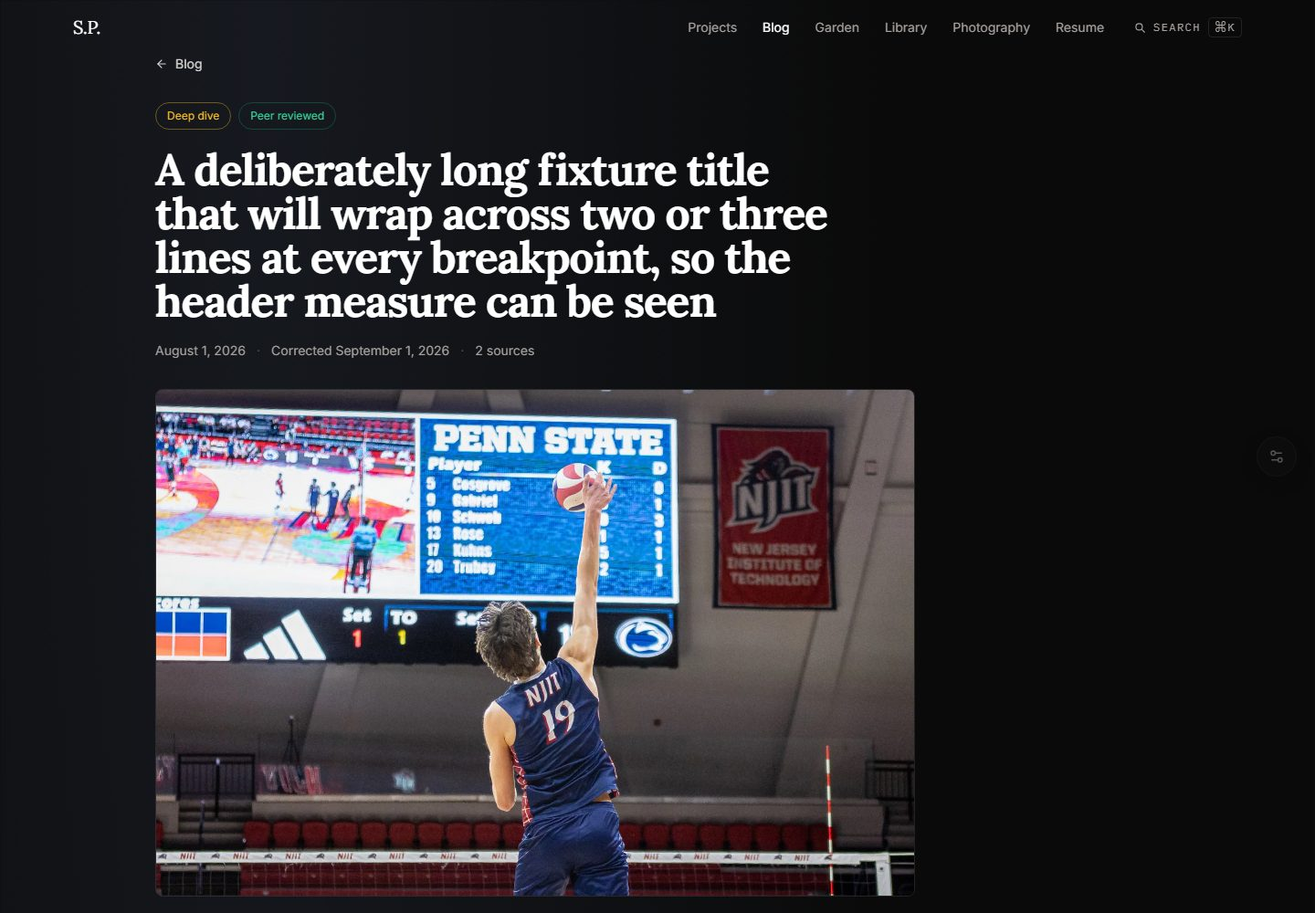
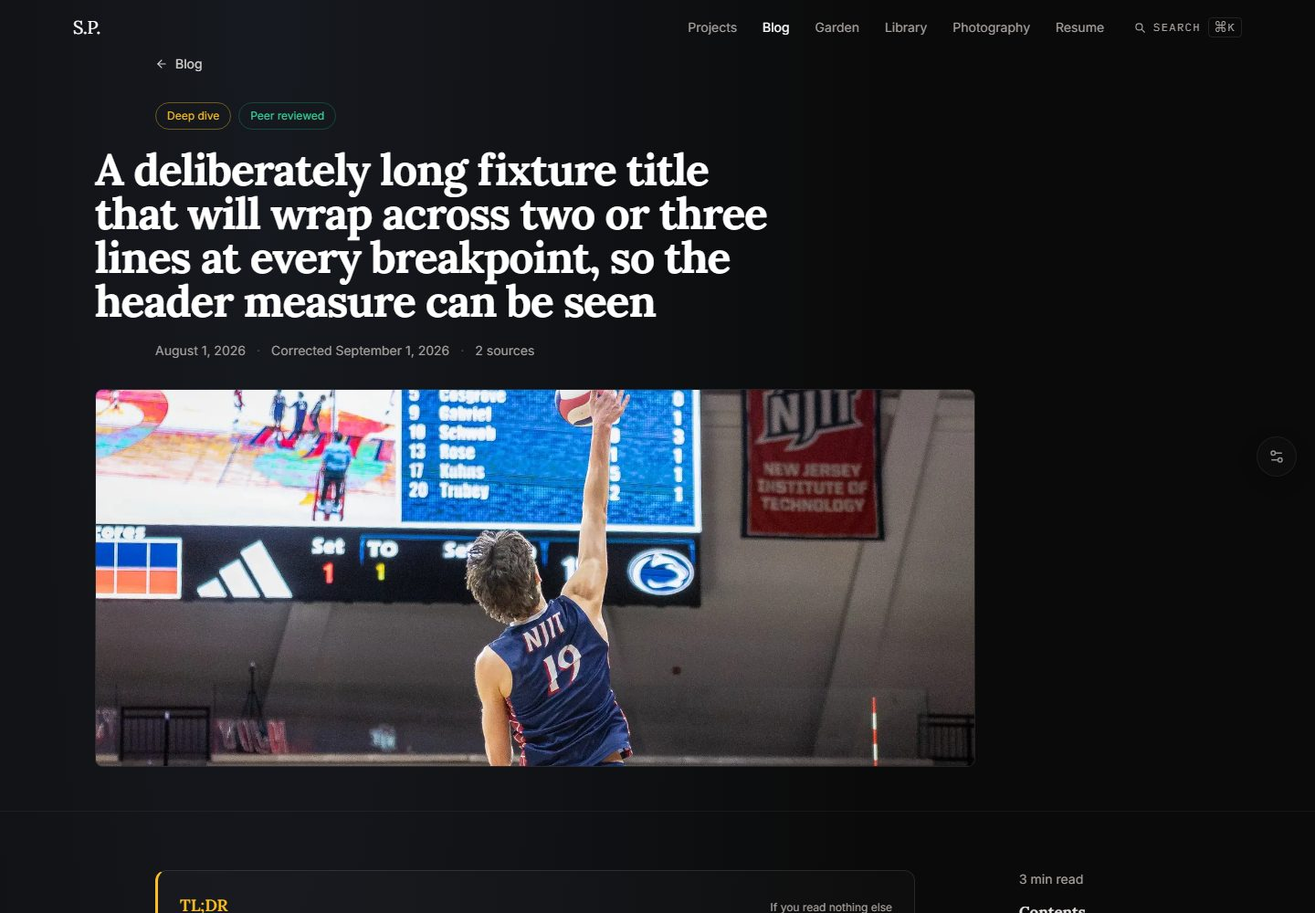
Article header: hero at 21:9 on the full column, title beside it (7.3 F, 7.4 B)
7.3 and 7.4 ship together because they are one restructure. Both decisions move
an element from the 52rem `wide` tier onto the full reading column, and that
needed the header's single wrapper split into a full-width column with 52rem
blocks inside it. Shipping one without the other leaves the header with two
different ideas of where its left edge is.

7.3 option F. The hero is 21:9 across the full column, 132px wider (+16%), and
the crop is SANITY's rather than CSS's. object-fit crops around the geometric
centre, which is why a subject drifts out of frame at one breakpoint and not
another; passing the raw image object to @sanity/image-url lets it read the
editor's hotspot and compute the rect, so the subject stays in frame because a
person said where it is. The bytes fetched are also the bytes shown, instead of a
16:9 image with a third of it hidden behind a container.

That required projecting the raw `mainImage` object in postBySlugQuery. The
existing projection flattens to `asset->url`, which loses hotspot and crop.

Measured against F's own predicted fold table, and it lands within a pixel at
every breakpoint. First line of prose: 1440 886 against a predicted 885, 768 1093
against 1092, 390 961 against 960. 768 gains 72px, which is the largest single
fold improvement in the phase.

7.4 option B. The title joins the same full column: 964px at 1440, up from 832,
and the 77-character title now sets in two lines. Rejected C, flush with the
[…]

diff --git a/sanity.types.ts b/sanity.types.ts
@@ -4824,7 +4824,7 @@ export type PostSlugsQueryResult = Array<{
 
 // Source: sanity/lib/queries.ts
 // Variable: postBySlugQuery
-// Query: *[_type == "post" && slug.current == $slug][0] {    _id, _updatedAt, title, "slug": slug.current, publishedAt,    "mainImageUrl": mainImage.asset->url,    "mainImageAlt": coalesce(mainImage.alt, mainImage.asset->altText),    "lqip": mainImage.asset->metadata.lqip,    body, excerpt, tldr,      "wordCount": coalesce(math::sum(body[_type == "block" && defined(children)]{    "w": length(string::split(array::join(children[].text, ""), " "))  }.w), 0),    "categories": categories[]->title,    "tags": tags[]->{ _id, title, "slug": slug.current }[defined(_id)],    articleType, confidenceLevel, maturityIndicator, cognitiveLoad, recommendedTheme,    reviewStatus,    learningObjectives,    "prerequisites": prerequisites[] {      _key, description,      "post": post->{ title, "slug": slug.current }    },    "checkpoint": priorKnowledgeCheck,    conceptCards[] { _key, front, back },    "readNextGoDeeper":  readNextGoDeeper->{ title, "slug": slug.current, excerpt, articleType },    "readNextGoBroader": readNextGoBroader->{ title, "slug": slug.current, excerpt, articleType },    "readNextApplyThis": readNextApplyThis->{ title, "slug": slug.current, excerpt, articleType },    "series": series->{      _id, title, "slug": slug.current, description,      "posts": *[_type == "post" && references(^._id) && defined(slug.current)] | order(seriesOrder asc, publishedAt asc) {        _id, title, "slug": slug.current, seriesOrder      }    },    seriesOrder,    reviewers[] { _key, name, role, organization, quote, date, linkedIn, anonymous },    changelog[]  { _key, date, description },    // 3B. Full objects here, unlike the card -- the article renders them in place and at    // the foot, so it needs every field.    corrections[] { _key, anchor, kind, was, now, creditTo, creditUrl, date, sourceComment },    responsesFromField[] { _key, title, url, author, platform, summary, date },    sources[] { _key, title, url, author, type, description },    "glossary": *[_type == "glossaryTerm" && defined(slug.current)] { _id, term, "slug": slug.current, definition, aliases },    "backlinks": {      "notes": *[_type == "note" && references(^._id)] { _id, title, "slug": slug.current, status },      "posts": *[_type == "post" && references(^._id) && _id != ^._id] { _id, title, "slug": slug.current, articleType },      "library": *[_type == "mediaItem" && references(^._id)] { _id, title, mediaType, author },      "projects": *[_type == "project" && references(^._id)] { _id, title, "slug": slug.current }    }  }
+// Query: *[_type == "post" && slug.current == $slug][0] {    _id, _updatedAt, title, "slug": slug.current, publishedAt,    "mainImageUrl": mainImage.asset->url,    "mainImageAlt": coalesce(mainImage.alt, mainImage.asset->altText),    "lqip": mainImage.asset->metadata.lqip,    // 7.3 option F. The RAW image object, asset reference and all, because the hero is    // cropped to 21:9 by Sanity from the editor's hotspot rather than by CSS object-fit.    // The projection above flattens to a URL string and loses hotspot and crop with it, so    // a second projection is the only way to keep them. @sanity/image-url reads hotspot and    // crop off this shape and computes the rect.    // NO BACKTICKS IN THIS COMMENT: one ends the template literal and silently truncates    // every query below it. See RESUME.md; it has cost this project two sessions.    mainImage { asset, hotspot, crop },    body, excerpt, tldr,      "wordCount": coalesce(math::sum(body[_type == "block" && defined(children)]{    "w": length(string::split(array::join(children[].text, ""), " "))  }.w), 0),    "categories": categories[]->title,    "tags": tags[]->{ _id, title, "slug": slug.current }[defined(_id)],    articleType, confidenceLevel, maturityIndicator, cognitiveLoad, recommendedTheme,    reviewStatus,    learningObjectives,    "prerequisites": prerequisites[] {      _key, description,      "post": post->{ title, "slug": slug.current }    },    "checkpoint": priorKnowledgeCheck,    conceptCards[] { _key, front, back },    "readNextGoDeeper":  readNextGoDeeper->{ title, "slug": slug.current, excerpt, articleType },    "readNextGoBroader": readNextGoBroader->{ title, "slug": slug.current, excerpt, articleType },    "readNextApplyThis": readNextApplyThis->{ title, "slug": slug.current, excerpt, articleType },    "series": series->{      _id, title, "slug": slug.current, description,      "posts": *[_type == "post" && references(^._id) && defined(slug.current)] | order(seriesOrder asc, publishedAt asc) {        _id, title, "slug": slug.current, seriesOrder      }    },    seriesOrder,    reviewers[] { _key, name, role, organization, quote, date, linkedIn, anonymous },    changelog[]  { _key, date, description },    // 3B. Full objects here, unlike the card -- the article renders them in place and at    // the foot, so it needs every field.    corrections[] { _key, anchor, kind, was, now, creditTo, creditUrl, date, sourceComment },    responsesFromField[] { _key, title, url, author, platform, summary, date },    sources[] { _key, title, url, author, type, description },    "glossary": *[_type == "glossaryTerm" && defined(slug.current)] { _id, term, "slug": slug.current, definition, aliases },    "backlinks": {      "notes": *[_type == "note" && references(^._id)] { _id, title, "slug": slug.current, status },      "posts": *[_type == "post" && references(^._id) && _id != ^._id] { _id, title, "slug": slug.current, articleType },      "library": *[_type == "mediaItem" && references(^._id)] { _id, title, mediaType, author },      "projects": *[_type == "project" && references(^._id)] { _id, title, "slug": slug.current }    }  }
 export type PostBySlugQueryResult = {
   _id: string
   _updatedAt: string
@@ -4834,6 +4834,11 @@ export type PostBySlugQueryResult = {
   mainImageUrl: string | null
   mainImageAlt: string | null
   lqip: string | null
+  mainImage: {
+    asset: SanityImageAssetReference | null
+    hotspot: SanityImageHotspot | null
+    crop: SanityImageCrop | null
+  } | null
   body: Array<
     | ({
         _key: string
@@ -5759,7 +5764,7 @@ declare module '@sanity/client' {
     '\n  *[_type == "testimonial" && consent == true] | order(date desc) {\n    _id, name, role, quote, date, service, "photoUrl": photo.asset->url\n  }\n': TestimonialsQueryResult
     '{\n  "featuredPost": *[_type == "post" && isFeatured == true] | order(publishedAt desc)[0] { \n  _id,\n  title,\n  "slug": slug.current,\n  publishedAt,\n  excerpt,\n  "imageUrl": mainImage.asset->url,\n  "lqip": mainImage.asset->metadata.lqip,\n  "categories": categories[]->title,\n  "tags": tags[]->{ _id, title, "slug": slug.current },\n  articleType,\n  // The card carries the small status mark (Phase 3.3). Without this the index and the\n  // feeds had no status at all while the article had three tiers of it.\n  reviewStatus,\n  // 3.7 + 3B. The newest date across the changelog AND the corrections -- both are material\n  // revisions. Projected as one value rather than the whole arrays: the card needs the date\n  // and the kinds, not twenty revision notes per card.\n  // coalesce(..., []) because null + array is null in GROQ -- and a backtick in this\n  // comment would end the template literal the query lives in, which is how the first\n  // version of this line silently dropped 27 of 40 queries from typegen.\n  // A post with a changelog and no corrections would otherwise project no date at all.\n  "lastRevised": (coalesce(changelog[].date, []) + coalesce(corrections[].date, [])) | order(@ desc)[0],\n  "correctionKinds": corrections[].kind,\n  \n  "wordCount": coalesce(math::sum(body[_type == "block" && defined(children)]{\n    "w": length(string::split(array::join(children[].text, ""), " "))\n  }.w), 0),\n  "series": series->{ title, "slug": slug.current }\n },\n  // Every post, ordered. The page removes whichever one it actually featured. Filtering\n  // isFeatured != true here hid any post flagged featured but not selected as THE featured one.\n  "posts": *[_type == "post"] | order(publishedAt desc) { \n  _id,\n  title,\n  "slug": slug.current,\n  publishedAt,\n  excerpt,\n  "imageUrl": mainImage.asset->url,\n  "lqip": mainImage.asset->metadata.lqip,\n  "categories": categories[]->title,\n  "tags": tags[]->{ _id, title, "slug": slug.current },\n  articleType,\n  // The card carries the small status mark (Phase 3.3). Without this the index and the\n  // feeds had no status at all while the article had three tiers of it.\n  reviewStatus,\n  // 3.7 + 3B. The newest date across the changelog AND the corrections -- both are material\n  // revisions. Projected as one value rather than the whole arrays: the card needs the date\n  // and the kinds, not twenty revision notes per card.\n  // coalesce(..., []) because null + array is null in GROQ -- and a backtick in this\n  // comment would end the template literal the query lives in, which is how the first\n  // version of this line silently dropped 27 of 40 queries from typegen.\n  // A post with a changelog and no corrections would otherwise project no date at all.\n  "lastRevised": (coalesce(changelog[].date, []) + coalesce(corrections[].date, [])) | order(@ desc)[0],\n  "correctionKinds": corrections[].kind,\n  \n  "wordCount": coalesce(math::sum(body[_type == "block" && defined(children)]{\n    "w": length(string::split(array::join(children[].text, ""), " "))\n  }.w), 0),\n  "series": series->{ title, "slug": slug.current }\n },\n  "series": *[_type == "series"] | order(title asc) {\n    _id, title, "slug": slug.current, description, "count": count(*[_type == "post" && references(^._id)])\n  },\n  "currentlyReading": *[_type == "mediaItem" && status == "current"] | order(startedAt desc)[0...3] {\n    _id, title, author, mediaType, progressPercent, url\n  },\n  "recentNotes": *[_type == "note"] | order(coalesce(lastTended, _updatedAt) desc)[0...4] {\n    _id, title, "slug": slug.current, status\n  }\n}': BlogIndexQueryResult
     '\n  *[_type == "post" && defined(slug.current)]{ "slug": slug.current }\n': PostSlugsQueryResult
-    '\n  *[_type == "post" && slug.current == $slug][0] {\n    _id, _updatedAt, title, "slug": slug.current, publishedAt,\n    "mainImageUrl": mainImage.asset->url,\n    "mainImageAlt": coalesce(mainImage.alt, mainImage.asset->altText),\n    "lqip": mainImage.asset->metadata.lqip,\n    body, excerpt, tldr,\n    \n  "wordCount": coalesce(math::sum(body[_type == "block" && defined(children)]{\n    "w": length(string::split(array::join(children[].text, ""), " "))\n  }.w), 0),\n    "categories": categories[]->title,\n    "tags": tags[]->{ _id, title, "slug": slug.current }[defined(_id)],\n    articleType, confidenceLevel, maturityIndicator, cognitiveLoad, recommendedTheme,\n    reviewStatus,\n    learningObjectives,\n    "prerequisites": prerequisites[] {\n      _key, description,\n      "post": post->{ title, "slug": slug.current }\n    },\n    "checkpoint": priorKnowledgeCheck,\n    conceptCards[] { _key, front, back },\n    "readNextGoDeeper":  readNextGoDeeper->{ title, "slug": slug.current, excerpt, articleType },\n    "readNextGoBroader": readNextGoBroader->{ title, "slug": slug.current, excerpt, articleType },\n    "readNextApplyThis": readNextApplyThis->{ title, "slug": slug.current, excerpt, articleType },\n    "series": series->{\n      _id, title, "slug": slug.current, description,\n      "posts": *[_type == "post" && references(^._id) && defined(slug.current)] | order(seriesOrder asc, publishedAt asc) {\n        _id, title, "slug": slug.current, seriesOrder\n      }\n    },\n    seriesOrder,\n    reviewers[] { _key, name, role, organization, quote, date, linkedIn, anonymous },\n    changelog[]  { _key, date, description },\n    // 3B. Full objects here, unlike the card -- the article renders them in place and at\n    // the foot, so it needs every field.\n    corrections[] { _key, anchor, kind, was, now, creditTo, creditUrl, date, sourceComment },\n    responsesFromField[] { _key, title, url, author, platform, summary, date },\n    sources[] { _key, title, url, author, type, description },\n    "glossary": *[_type == "glossaryTerm" && defined(slug.current)] { _id, term, "slug": slug.current, definition, aliases },\n    "backlinks": {\n      "notes": *[_type == "note" && references(^._id)] { _id, title, "slug": slug.current, status },\n      "posts": *[_type == "post" && references(^._id) && _id != ^._id] { _id, title, "slug": slug.current, articleType },\n      "library": *[_type == "mediaItem" && references(^._id)] { _id, title, mediaType, author },\n      "projects": *[_type == "project" && references(^._id)] { _id, title, "slug": slug.current }\n    }\n  }\n': PostBySlugQueryResult
+    '\n  *[_type == "post" && slug.current == $slug][0] {\n    _id, _updatedAt, title, "slug": slug.current, publishedAt,\n    "mainImageUrl": mainImage.asset->url,\n    "mainImageAlt": coalesce(mainImage.alt, mainImage.asset->altText),\n    "lqip": mainImage.asset->metadata.lqip,\n    // 7.3 option F. The RAW image object, asset reference and all, because the hero is\n    // cropped to 21:9 by Sanity from the editor\'s hotspot rather than by CSS object-fit.\n    // The projection above flattens to a URL string and loses hotspot and crop with it, so\n    // a second projection is the only way to keep them. @sanity/image-url reads hotspot and\n    // crop off this shape and computes the rect.\n    // NO BACKTICKS IN THIS COMMENT: one ends the template literal and silently truncates\n    // every query below it. See RESUME.md; it has cost this project two sessions.\n    mainImage { asset, hotspot, crop },\n    body, excerpt, tldr,\n    \n  "wordCount": coalesce(math::sum(body[_type == "block" && defined(children)]{\n    "w": length(string::split(array::join(children[].text, ""), " "))\n  }.w), 0),\n    "categories": categories[]->title,\n    "tags": tags[]->{ _id, title, "slug": slug.current }[defined(_id)],\n    articleType, confidenceLevel, maturityIndicator, cognitiveLoad, recommendedTheme,\n    reviewStatus,\n    learningObjectives,\n    "prerequisites": prerequisites[] {\n      _key, description,\n      "post": post->{ title, "slug": slug.current }\n    },\n    "checkpoint": priorKnowledgeCheck,\n    conceptCards[] { _key, front, back },\n    "readNextGoDeeper":  readNextGoDeeper->{ title, "slug": slug.current, excerpt, articleType },\n    "readNextGoBroader": readNextGoBroader->{ title, "slug": slug.current, excerpt, articleType },\n    "readNextApplyThis": readNextApplyThis->{ title, "slug": slug.current, excerpt, articleType },\n    "series": series->{\n      _id, title, "slug": slug.current, description,\n      "posts": *[_type == "post" && references(^._id) && defined(slug.current)] | order(seriesOrder asc, publishedAt asc) {\n        _id, title, "slug": slug.current, seriesOrder\n      }\n    },\n    seriesOrder,\n    reviewers[] { _key, name, role, organization, quote, date, linkedIn, anonymous },\n    changelog[]  { _key, date, description },\n    // 3B. Full objects here, unlike the card -- the article renders them in place and at\n    // the foot, so it needs every field.\n    corrections[] { _key, anchor, kind, was, now, creditTo, creditUrl, date, sourceComment },\n    responsesFromField[] { _key, title, url, author, platform, summary, date },\n    sources[] { _key, title, url, author, type, description },\n    "glossary": *[_type == "glossaryTerm" && defined(slug.current)] { _id, term, "slug": slug.current, definition, aliases },\n    "backlinks": {\n      "notes": *[_type == "note" && references(^._id)] { _id, title, "slug": slug.current, status },\n      "posts": *[_type == "post" && references(^._id) && _id != ^._id] { _id, title, "slug": slug.current, articleType },\n      "library": *[_type == "mediaItem" && references(^._id)] { _id, title, mediaType, author },\n      "projects": *[_type == "project" && references(^._id)] { _id, title, "slug": slug.current }\n    }\n  }\n': PostBySlugQueryResult
     '{\n  "posts": *[_type == "post" && defined(slug.current)] {\n    _id, title, "slug": slug.current, excerpt, publishedAt, articleType,\n    "categories": categories[]->title, "text": pt::text(body)\n  },\n  "notes": *[_type == "note" && defined(slug.current)] {\n    _id, title, "slug": slug.current, status, "text": pt::text(body)\n  },\n  "projects": *[_type == "project" && defined(slug.current)] {\n    _id, title, "slug": slug.current, "excerpt": pt::text(overview), techStack\n  },\n  "library": *[_type == "mediaItem"] { _id, title, author, mediaType, oneSentenceTake, url },\n  "glossary": *[_type == "glossaryTerm" && defined(slug.current)] { _id, term, "slug": slug.current, definition }\n}': SearchIndexQueryResult
     '\n  *[_type == "post" && defined(slug.current) && defined(publishedAt)] | order(publishedAt desc)[0...50] {\n    _id, title, "slug": slug.current, publishedAt, _updatedAt, excerpt, body, articleType,\n    reviewStatus,\n    "lastRevised": (coalesce(changelog[].date, []) + coalesce(corrections[].date, [])) | order(@ desc)[0],\n    "correctionKinds": corrections[].kind,\n    "categories": categories[]->title,\n    "imageUrl": mainImage.asset->url\n  }\n': FeedQueryResult
     '\n  *[_type == "series" && slug.current == $slug][0] {\n    _id, title, "slug": slug.current, description, status,\n    "posts": *[_type == "post" && references(^._id) && defined(slug.current)] | order(seriesOrder asc, publishedAt asc) { \n  _id,\n  title,\n  "slug": slug.current,\n  publishedAt,\n  excerpt,\n  "imageUrl": mainImage.asset->url,\n  "lqip": mainImage.asset->metadata.lqip,\n  "categories": categories[]->title,\n  "tags": tags[]->{ _id, title, "slug": slug.current },\n  articleType,\n  // The card carries the small status mark (Phase 3.3). Without this the index and the\n  // feeds had no status at all while the article had three tiers of it.\n  reviewStatus,\n  // 3.7 + 3B. The newest date across the changelog AND the corrections -- both are material\n  // revisions. Projected as one value rather than the whole arrays: the card needs the date\n  // and the kinds, not twenty revision notes per card.\n  // coalesce(..., []) because null + array is null in GROQ -- and a backtick in this\n  // comment would end the template literal the query lives in, which is how the first\n  // version of this line silently dropped 27 of 40 queries from typegen.\n  // A post with a changelog and no corrections would otherwise project no date at all.\n  "lastRevised": (coalesce(changelog[].date, []) + coalesce(corrections[].date, [])) | order(@ desc)[0],\n  "correctionKinds": corrections[].kind,\n  \n  "wordCount": coalesce(math::sum(body[_type == "block" && defined(children)]{\n    "w": length(string::split(array::join(children[].text, ""), " "))\n  }.w), 0),\n  "series": series->{ title, "slug": slug.current }\n, seriesOrder }\n  }\n': SeriesBySlugQueryResult

diff --git a/components/blog/BlogArticleHeader.tsx b/components/blog/BlogArticleHeader.tsx
@@ -4,7 +4,7 @@ import { articleTypeMeta } from '@/lib/site'
 import { ArrowLeft } from 'lucide-react'
 import { DEFAULT_ARTICLE_UI, type ArticleUiCopy } from '@/lib/cms/defaults/articleUi'
 import type { VocabEntry } from '@/lib/cms/defaults/taxonomy'
-import { heroImageUrl } from '@/components/article/heroImage'
+import { HERO_HEIGHT, HERO_WIDTH, heroCropUrl, heroImageUrl } from '@/components/article/heroImage'
 import { FOCUS } from '@/lib/ui'
 import { reviewFlags, type RevisionFlag } from '@/lib/status'
 // components/blog/BlogArticleHeader.tsx
@@ -30,6 +30,8 @@ interface BlogArticleHeaderProps {
   categories: string[]
   articleType?: string | null
   mainImageUrl?: string | null
+  /** 7.3 F. The RAW image object, so Sanity can crop to 21:9 from the editor's hotspot. */
+  mainImage?: Parameters<typeof heroCropUrl>[0]
   mainImageAlt?: string | null
   lqip?: string | null
   sourceCount?: number
@@ -47,6 +49,7 @@ export function BlogArticleHeader({
   categories,
   articleType,
   mainImageUrl,
+  mainImage,
   mainImageAlt,
   lqip,
   sourceCount = 0,
@@ -65,6 +68,9 @@ export function BlogArticleHeader({
   const reviewBadge = headerFlag
     ? { label: headerFlag.label, className: `${headerFlag.color} ${headerFlag.bg.split(' ')[0]}` }
     : null
+
+  // 7.3 F. undefined when the post has no image object or no asset reference.
+  const heroCrop = heroCropUrl(mainImage)
 
   const metaItems = [
     publishDate,
@@ -94,6 +100,12 @@ export function BlogArticleHeader({
           title deliberately overhangs the prose on both sides; it does not share its left
           edge, and a future change that expects it to will be wrong. */}
       <div className="relative max-w-[80rem] mx-auto px-6 lg:grid lg:grid-cols-[minmax(0,1fr)_220px] lg:gap-12">
+        {/* 7.3 F and 7.4 B. This wrapper is the FULL reading column (964px at 1440). The
+            title and the hero now sit on it, and everything else stays on the 52rem `wide`
+            tier inside it. Header and prose stay concentric rather than flush: the 52rem
+            blocks are centred in this column, so the title overhangs the prose by 66px on
+            each side deliberately. */}
+        <div className="w-full">
         <div className="w-full max-w-[52rem] mx-auto">
         <Link
           href="/blog"
@@ -125,17 +137,19 @@ export function BlogArticleHeader({
           </div>
         )}
 
-        {/* D4 gave the h1 an explicit `lg:w-[52rem]` so it could break out of a 36rem parent
-            -- 576px is too narrow for a display title at 48px and `text-wrap: balance` can
-            only pick better breaks inside the width it is given. 7.2 widened the parent to
-            that same 52rem, so the override is now a restatement of its own container and
-            is gone. The title keeps the width it was measured at (4 lines/192px -> 3
-            lines/144px at 1440); it simply inherits it now. 7.4 re-renders the h1 options
-            against this layout. */}
-        <h1 className="text-3xl md:text-4xl lg:text-5xl font-serif font-bold text-white mb-5 leading-tight tracking-tight">
+        </div>
+
+        {/* 7.4 option B. The title joins the full reading column instead of the 52rem tier.
+            B sets a 43-character title on one line where the current width breaks it across
+            two, which is the clearest wrapping defect on the page, and saves a line on the
+            77-character title as well. It never costs a line on any of the three measured.
+            Rejected: C, flush with the prose measure, which costs a line on the two longer
+            titles and reads as a title that ran out of room rather than one that was set. */}
+        <h1 className="text-3xl md:text-4xl lg:text-5xl font-serif font-bold text-white mb-5 leading-tight tracking-tight text-balance">
           {title}
         </h1>
 
+        <div className="w-full max-w-[52rem] mx-auto">
         <div className="flex items-center gap-3 font-sans text-sm text-stone-400 flex-wrap">
           {metaItems.map((item, i) => (
             <span key={item} className="flex items-center gap-3">
@@ -145,16 +159,23 @@ export function BlogArticleHeader({
           ))}
         </div>
 
-        {mainImageUrl && (
+        </div>
+
+        {/* 7.3 option F. Full reading column at 21:9, cropped by Sanity from the editor's
+            hotspot. No object-fit and no fixed-height container: the URL already carries the
+            aspect, so `w-full h-auto` renders exactly the bytes that were fetched.
+            heroCrop falls back to the uncropped 16:9 URL when a post has no image object,
+            which keeps older callers working. */}
+        {(heroCrop || mainImageUrl) && (
           <figure className="mt-8">
             <Image
-              src={heroImageUrl(mainImageUrl)}
+              src={heroCrop ?? heroImageUrl(mainImageUrl!)}
               alt={mainImageAlt ?? ''}
-              width={1600}
-              height={900}
+              width={HERO_WIDTH}
+              height={heroCrop ? HERO_HEIGHT : 900}
               priority
               unoptimized
-              sizes="(min-width: 768px) 52rem, 100vw"
+              sizes="(min-width: 1024px) 60rem, 100vw"
               placeholder={lqip ? 'blur' : 'empty'}
               blurDataURL={lqip ?? undefined}
               className="w-full h-auto rounded-lg border border-edge"

diff --git a/components/article/heroImage.ts b/components/article/heroImage.ts
@@ -1,7 +1,52 @@
 // components/article/heroImage.ts
 // Plain module (no 'use client') so both the server page and the client hero can use it.
 
-/** Sanity CDN hero URL: 1600px wide, auto format, q75. */
+import type { Image } from 'sanity'
+import { urlForImage } from '@/sanity/lib/utils'
+
+/** Sanity CDN hero URL: 1600px wide, auto format, q75. Uncropped; see heroCropUrl. */
 export function heroImageUrl(url: string): string {
   return `${url}${url.includes('?') ? '&' : '?'}w=1600&auto=format&q=75`
+}
+
+/**
+ * 7.3 option F. The hero is 21:9 across the FULL reading column.
+ *
+ * Two things it fixes. The hero used to sit at the 52rem `wide` tier, which is a width
+ * nothing else on the article shares — the reading column, the figures and the code blocks
+ * are all on the full tier at 964px — so it now joins them, 132px wider (+16%). And it
+ * shortens the fold at every breakpoint, which is the thing 7.3 was actually asked to fix:
+ * measured, the first line of prose moves up 26px at 1440, **72px at 768** and 34px at 390.
+ * 390 is the number the brief cares most about and the only place nothing else can help,
+ * because the column is viewport-bound there and only the crop can move it.
+ *
+ * THE CROP IS SANITY'S, NOT CSS's. `object-fit: cover` crops around the geometric centre,
+ * which is why a face or a rack of equipment drifts out of frame at one breakpoint and not
+ * another. Passing the raw image object to @sanity/image-url lets it read the editor's
+ * HOTSPOT and compute the rect, so the subject stays in frame because a person said where
+ * the subject is. It also means the bytes that cross the wire are the bytes shown, rather
+ * than a 16:9 image with a third of it hidden behind a container.
+ *
+ * Falls back to a centre crop when a post has no hotspot set, which is every published post
+ * today.
+ */
+export const HERO_WIDTH = 1600
+export const HERO_HEIGHT = Math.round((HERO_WIDTH * 9) / 21) // 686
+
+/**
+ * Typed loosely on purpose. Sanity typegen emits `asset: SanityImageAssetReference | null`
+ * for this projection, while the `Image` type in the toolkit wants `Reference | undefined`,
+ * so the two disagree only about how they spell "absent". `urlForImage` already guards on
+ * `source?.asset?._ref` and returns undefined without one, which is the real check.
+ */
+type HeroImageSource = { asset?: unknown; hotspot?: unknown; crop?: unknown } | null | undefined
+
+export function heroCropUrl(image: HeroImageSource): string | undefined {
+  return urlForImage(image as Image | null | undefined)
+    ?.width(HERO_WIDTH)
+    .height(HERO_HEIGHT)
+    .fit('crop')
+    .auto('format')
+    .quality(75)
+    .url()
 }

diff --git a/sanity/lib/queries.ts b/sanity/lib/queries.ts
@@ -365,6 +365,14 @@ export const postBySlugQuery = defineQuery(`
     "mainImageUrl": mainImage.asset->url,
     "mainImageAlt": coalesce(mainImage.alt, mainImage.asset->altText),
     "lqip": mainImage.asset->metadata.lqip,
+    // 7.3 option F. The RAW image object, asset reference and all, because the hero is
+    // cropped to 21:9 by Sanity from the editor's hotspot rather than by CSS object-fit.
+    // The projection above flattens to a URL string and loses hotspot and crop with it, so
+    // a second projection is the only way to keep them. @sanity/image-url reads hotspot and
+    // crop off this shape and computes the rect.
+    // NO BACKTICKS IN THIS COMMENT: one ends the template literal and silently truncates
+    // every query below it. See RESUME.md; it has cost this project two sessions.
+    mainImage { asset, hotspot, crop },
     body, excerpt, tldr,
     ${wordCountField},
     "categories": categories[]->title,

diff --git a/app/(archive)/blog/[slug]/page.tsx b/app/(archive)/blog/[slug]/page.tsx
@@ -212,6 +212,7 @@ export default async function BlogPostPage({ params, searchParams }: Props) {
           categories={categories}
           articleType={post.articleType}
           mainImageUrl={post.mainImageUrl}
+          mainImage={post.mainImage}
           mainImageAlt={post.mainImageAlt}
           lqip={post.lqip}
           sourceCount={post.sources?.length ?? 0}

diff --git a/docs/audit/PROPOSALS.md b/docs/audit/PROPOSALS.md
@@ -744,6 +744,9 @@ The margin text is the complete note; the window holds what will not fit.
 
 # Phase 7.1 — the prose measure. Measured, not predicted.
 
+> **DECIDED AND SHIPPED.** 51ch / 56ch / 64ch, confirmed by Stefan and already live —
+> they went in with 7.2 in `b8a1621` and are `styles/article.css` lines 116-118.
+
 `docs/audit/measure-prose-width.mjs`, run 2026-09-11. Method is §1.5's, so these numbers are
 comparable with the five reference sites: **real characters ÷ real lines**, per paragraph,
 median over 58 qualifying paragraphs. Lines are counted from client rects rather than
@@ -820,6 +823,14 @@ Standard moves from 57.2 to **67.1** — squarely mid-band, and stable across ev
 ---
 
 # Phase 7.3 — the hero image. The fold decides it, not the width.
+
+> **DECIDED AND SHIPPED: option F.** Full reading column at 21:9, cropped by Sanity from the
+> editor's hotspot rather than by CSS object-fit. The raw image object is now projected in
+> `postBySlugQuery` so hotspot and crop survive the query, and the URL carries a `rect=`.
+>
+> **Measured after shipping, against F's own predicted table.** First line of prose:
+> 1440 **886** (predicted 885), 768 **1093** (predicted 1092), 390 **961** (predicted 960).
+> Within a pixel at every breakpoint. Hero renders 964px wide at a 2.33 ratio.
 
 `docs/audit/render-hero-h1-options.mjs`, run 2026-09-12 against the shipped 7.2 layout.
 Seven options, synthesised in the page rather than shipped as code, measured at 1440 / 768 /
@@ -905,6 +916,9 @@ first paragraph.
 ---
 
 # Phase 7.4 — the h1, re-measured against the 7.2 layout
+
+> **DECIDED AND SHIPPED: option B.** The title joins the full reading column. Measured after:
+> h1 964px wide at 1440, up from 832, and the 77-character title now sets in **2 lines**.
 
 **The originals are superseded.** `decisions/README.md` Decision 1 chose option C,
 `lg:w-[52rem] lg:max-w-none`, to let the h1 escape a 36rem parent. 7.2 made that parent
